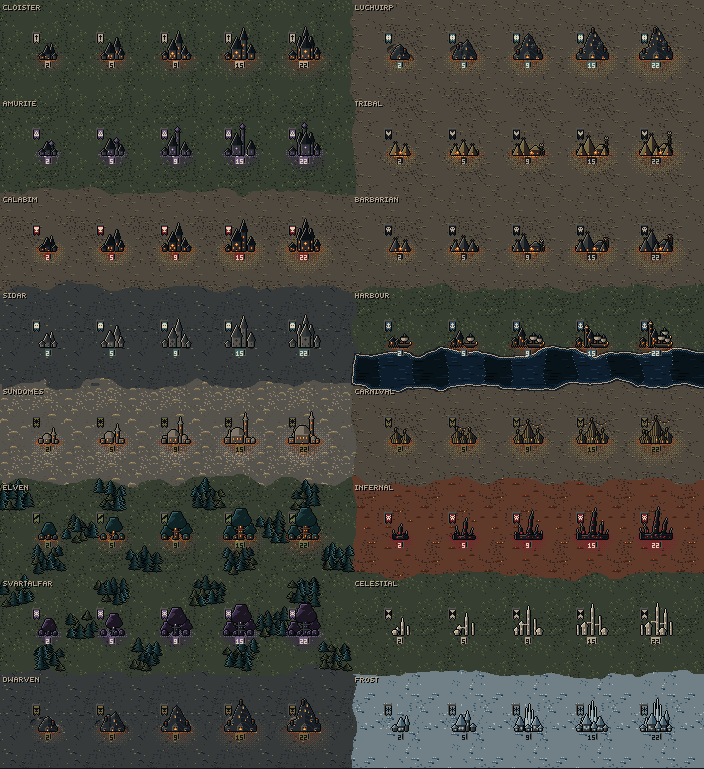
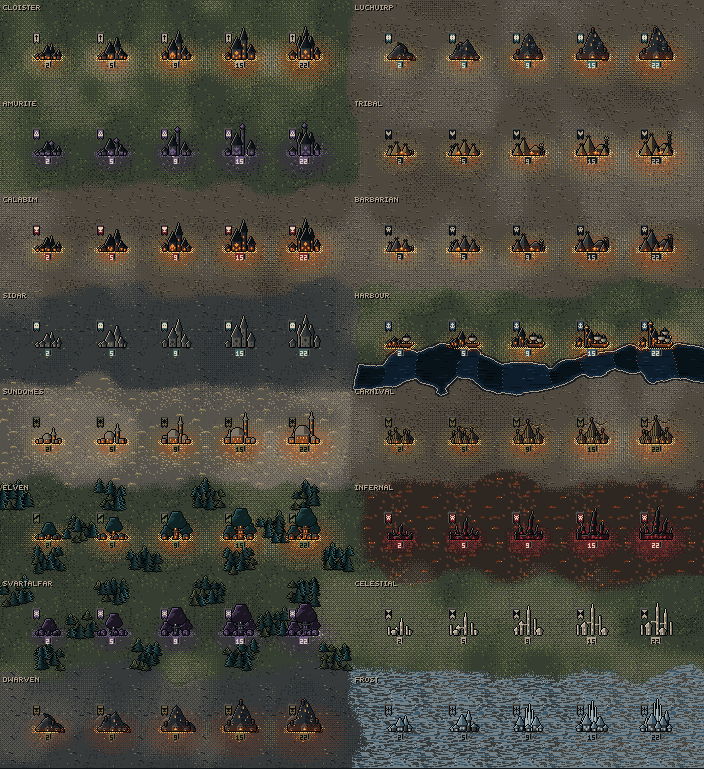
ffh-play: art pass 2: ART.md (budget revised deliberately, light pass, ground pass round 3, open points); reference shots
docs/ART.md: 2.3's value and colour budget revised toward the board, with
the measurements behind it (dark floor 70% -> 60%, above L*40 10% -> 12%,
reserved 2% -> 3%, light cores 0.3% -> 0.6%; the board's map: 66% dark,
11.8% above L*40, firelight 0.5%, cores 1.3%; the sample scene now 64%,
8.1%, firelight 0.22%, cores 0.12%); 2.4 lists the passes' tables; 4.4 the
three-ring pools; 5.2 grey snow; 5.6 pale paths; 6.2 sacred-site glows and
the standing stones circle; 8.2 REMEMBER and the fog bands; 9.1 tiers I-II
with outskirts, 1x2 windows, the new ground light and facade light; 16.3-16.4
the passes as built; 16.6 the open points outside the sets (palette.txt
columns, the plaque over the pool, the validator's city cap, the stale
docs/art/toolkit-scene.png).

Reference shots retaken: terrain/ref/scene-2x.png, terrain/ref/relief-3x.png,
cities/ref-styles.png (indexed), ui/ref/screen.png (indexed).

Claude-Session: https://claude.ai/code/session_015m21G1a13FKUWE1YyaXREp

diff --git a/projects/ffh2-rs/docs/ART.md b/projects/ffh2-rs/docs/ART.md
@@ -200,17 +200,34 @@ The same palette in machine-readable form (`index key name hex family`):
 
 ### 2.3 Value and colour budget
 
-Measured on the prototype map. Treat these as targets for any full-screen view of a typical game.
+Treat these as targets for any full-screen view of a typical game, measured over the visible
+(lit, not fogged) map pixels, one sample per art pixel, each pixel taken as its nearest palette
+colour.
 
-- At least **70%** of lit-map pixels have L* at or below 25 (the darkest 17 colours of section
-  2.1). The prototype map measured 75%, with 8% above L* 40, 1% above L* 60 and 0.7% in the
-  reserved families.
-- At most **10%** are above L* 40. At most **2%** are above L* 60 (bone, vellum, rime, glow, ritual,
+- At least **60%** of lit-map pixels have L* at or below 25 (the darkest 17 colours of section
+  2.1).
+- At most **12%** are above L* 40. At most **2%** are above L* 60 (bone, vellum, rime, glow, ritual,
   wisp, amber).
-- The three reserved families together (fire, crimson, pale green) cover at most **2%** of the
-  screen. Their light cores (`l L R W`) cover at most **0.3%**.
+- The three reserved families together (fire, crimson, pale green) cover at most **3%** of the
+  screen. Their light cores (`l L R W`) cover at most **0.6%**.
 - A saturated colour never fills more than about 6 px in a row except in glows, rituals or hell
   features. If it does, it is decoration.
+
+*Second round (the art director's light and ground review).* The first budget (70% dark, 10% above
+L* 40, 2% reserved, 0.3% cores) was measured on the prototype map, and the assembled sets kept well
+inside it: the sample scene measured 69% dark but only 3.5% above L* 40, firelight (`e E l L`) 0.14%
+and cores 0.09%, against the board's gameplay mock-up (same measure) at 66% dark, 11.8% above L* 40,
+2.6% above L* 60, firelight 0.5% and cores 1.3%. The map read under-lit and flat next to the board.
+The budget was revised deliberately, toward the board but short of it: the dark floor drops to 60%
+(the board is at 66%), the mid-light ceiling rises to 12% (the board's 11.8%) so moonlit clearings,
+pale paths and lit cities fit, and the reserved and core caps double so a town of several lit
+cities or a ritual site stays within them; the 2% ceiling above L* 60 stays (the board's 2.6% is
+painterly highlights that pixel art draws as edges). After the second round the sample scene
+(`preview/scene.html` at 2x, visible tiles; three cities, one of them Sheaim) measures 64% dark,
+8.1% above L* 40, 1.5% above L* 60, firelight 0.22%, cores 0.12% and 1.0% reserved; the cities
+plate's town map (`cities/preview.html?part=towns`, seven cities) firelight 0.43% and cores
+0.17%. Pixel-art light cores stay far below the board's 1.3% (its cores are soft painted glows);
+the light reads from the rings of section 4.4 instead.
 
 ### 2.4 Remap tables: fog and light pools
 
@@ -221,6 +238,12 @@ where a falloff is needed (section 4.4).
 `FOG` darkens about two steps within the family and puts every light out. The four pool tables pull
 the ground toward one reserved family: firelight (`FIRE`), corruption (`BLOOD`), ritual (`RITE`) and
 the arcane (`ARC`).
+
+The sets' passes (section 16.3) add tables of their own, written in the same form in their modules
+and candidates for new columns here (palette.txt would change with them): the light pass's ring
+tables WARM, HEARTH, EMBER, SMOULDER, GORE, AURA, HALLOW and HAZE (`cities/citylight.js`, section
+4.4), and the ground pass's REMEMBER (`FOG` with frost `f` to slate `4`, rime `F` to ash `5`, glint
+`g` to iron `3`, section 8.2), MOON, GRAIN and SHADE (the moonlit clearings, section 16.4).
 
 ```remap
 key  FOG FIRE BLOOD RITE ARC
@@ -378,9 +401,26 @@ W    T   8    R     W    8
   | window | none (a window is just the lit pixel) |
   | lantern or torch | 5 to 6 px |
   | campfire or forge | 8 px |
-  | city | 12 + 3 x size tier (two passes: the outer pass at full radius, the inner at half radius) |
+  | city | outer 24 + 4 x size tier, inner 12 + 4 x tier, core 6 + 2 x tier (section 9.1) |
 
   The pool is elliptical (vertical radius divided by 1.4) and centred on the source's ground point.
+- **A pool is light, not a stain** (second round). A single remap toward a family table turns moss
+  into dun or barrow green at the same value, and the ground reads as mud. Every pool is drawn by
+  the light pass (`cities/citylight.js`) as three nested rings, each remapping a pixel once from
+  its own ground colour with Bayer falloff, so the value rises toward the source:
+
+  | family | outer ring (r) | inner ring (0.55 r) | core (0.25 r, r >= 6) |
+  |---|---|---|---|
+  | `FIRE` | WARM: one step lighter and warmer (moss to ochre, dark moss to rust, ash to sand) | HEARTH: to flame `E`, dark ground to ember and rust, pale marks to amber | EMBER: to amber `l`, pale to glow `L` |
+  | `BLOOD` | SMOULDER: dark to blood, mid to rust, pale to crimson | GORE: to crimson, pale to scarlet | GORE |
+  | `ARC` | `ARC` (2.4) | AURA: to dusk and lilac | AURA |
+  | `RITE` | HAZE: to teal and patina, pale to ritual | HALLOW (0.5 r, sparse): to ritual `S`, pale to wisp | HALLOW (0.22 r) |
+
+  The outer ring covers at most 70% of its pixels at the centre and falls off as (1 - d)^0.6; the
+  inner ring 78% falling as (1 - d)^0.9; the core 75%, linearly (a ritual light: 80%, 60% and
+  85%). Open water (`d`, `n`) keeps its night under every ring; ripples and glints catch the
+  light. The tables are written as columns like 2.4's (`LIGHT_TABLES` in `cities/citylight.js`),
+  ready to move into palette.txt.
 - **Corruption** (volcano crater, Hellfire, Infernal cities, Broken Sepulcher...) uses `BLOOD`.
   **Ritual** sites use `RITE`. **Mana** nodes and spell effects use `ARC`.
 - **Pools never cross fog.** Lights are drawn only on visible tiles: what you saw last turn is
@@ -441,7 +481,7 @@ what the land used to be.
 | PLAINS | dun `Q` | umber `u` | horizontal stubble dashes, 2 to 4 px, alternating `y 5`, with a `u` pixel under | warm grey-brown |
 | DESERT | sand `Y` | stone `6` | dune arcs, 5 to 8 px, crest `7`, underside `y` | pale sand: the lightest land |
 | TUNDRA | slate `4` | iron `3` | lichen dots `O`/`o`, short crack lines `2` with a `5` lip | cool grey with specks |
-| SNOW | frost `f` | glint `g` | drift lines `g`, 4 to 8 px, with `F` crest pixels | pale blue-grey |
+| SNOW | frost `f` | slate `4` and glint `g` | wind streaks of slate and glint (about a third and a sixth), `F` crest pixels | cold grey, below the light of cities (second round: half glint read as a vivid steel-blue field) |
 | MARSH | moss-dk `q` | teal-dk `k` | water slits `n` with one `N` glint, reed ticks `o`/`O` | dark wet green |
 | BROKEN_LANDS (hell grass) | umber `u` | iron `3` | jagged cracks `1` with `c` lips, ash pebbles `5` | cracked dark earth |
 | FIELDS_OF_PERDITION (hell plains) | dusk `p` | bruise `v` | furrow dashes `c` with `P` flecks, bone-dust `6` | purple ash fields |
@@ -511,9 +551,13 @@ are **plot types** drawn over the plot's real terrain (section 5.3).
   is a **2 px ink line** of navy `n`, with a `g` glint pixel every 6 px and a 1 px soot `1`
   border. The line follows the terrain warp (it is displaced by −0.8 × the warp vector), so it
   meanders with the land. It joins water bodies; where river edges meet at corners, it rounds them.
-- **ROUTE_ROAD**: a dotted ink line from the tile anchor (16, 18) to each neighbour that has a road
-  (8 directions). One bone `7` dot every 3 px, with a coal `2` shadow pixel below-right. This is the
-  board's path motif.
+- **ROUTE_ROAD**: a pale path from the tile anchor (16, 18) to each neighbour that has a road
+  (8 directions). Dashes of bone `7` (2 px on, 2 px off along the line), each pixel with a coal `2`
+  shadow below-right, over a worn verge: the ground one step lighter, a 50% checker within 1.6 px of
+  the line and 25% out to 2.2 px. The line sways with a slow warp (0.55 x the 46/22/7 px warp of
+  the ground pass at its own seed), a function of the map position, so the halves two tiles draw
+  meet and a road wanders like the board's paths instead of ruling straight lines between tile
+  centres. This is the board's path motif.
 - **ROUTE_RAILROAD** (in the data, rarely seen): two parallel dotted lines 2 px apart, in stone `6`.
 - Roads enter cities to the city's gate point.
 
@@ -596,11 +640,13 @@ GOLD and the mana glyphs.
 
 Unique improvements are the **extraordinary** made visible. They are the only map objects, apart
 from lit windows, flames, volcanoes and mana nodes, allowed a full accent glow. Each is drawn once,
-32 px wide, with up to 8 to 12 px of overhang.
+32 px wide, with up to 8 to 12 px of overhang. Second round: the sacred sites glow wider (`RITE`
+pools of 14 to 24 px: a teal haze with a ritual heart, section 4.4), the pyre and the corrupted
+sites a little wider too (`FIRE` 14, `BLOOD` 12 to 17).
 
 | landmark | accent | pool |
 |---|---|---|
-| STANDING_STONES | 5 slate menhirs around a pale-green ring (the board's ritual circle) | `RITE` |
+| STANDING_STONES | 5 slate menhirs round a glowing pale-green ellipse 31 px wide (the board's ritual circle) with wisp sparks, an inner ring of barrow dots | `RITE` 24 |
 | POOL_OF_TEARS | a still pool with `S` ripples | `RITE` |
 | SEVEN_PINES | 7 tall conifers, each with a `W` mote | `RITE` |
 | YGGDRASIL | a giant tree, rising 12 px, with `S` glints in its crown | `RITE` |
@@ -736,13 +782,16 @@ grid of the owner's shade.
 Fogged tiles (revealed, not visible) are:
 
 - passed through `FOG` (section 2.4), so terrain keeps its family but drops two steps and every
-  light goes out;
+  light goes out; the ground pass uses REMEMBER, which is `FOG` with the frost family sent to the
+  neutrals (frost `f` to slate, rime `F` to ash, glint `g` to iron), so remembered snow and ice are
+  grey rather than the steel-blue `FOG` makes of them (second round; the vignette uses it too);
 - crossed by **ink hatching**: every pixel with `(x + y) mod 4 = 0` passes through `FOG` twice;
 - remembered: last-seen improvements, routes and cities (with their windows dark), but no foreign
   units.
 
 The fog edge follows the terrain warp at 0.6 × amplitude, so the line between seen and remembered
-is ragged like worn ink.
+is ragged like worn ink. (The ground pass classifies it like the terrain, full warp, and draws it as
+a 4 px Bayer band on each side; the unrevealed edge is a 3 px band: section 16.4.)
 
 ### 8.3 Unrevealed tiles and the vignette
 
@@ -778,8 +827,8 @@ than the one below, and a tier III town already fills its tile. Footprints inclu
 
 | tier | population | footprint (px) | top | content |
 |---|---|---|---|---|
-| I | 1-3 | about 20 wide, 17 tall | 11 | 2 or 3 buildings and a bell-cote; about 2 lit windows (one a 1x2 lancet with the `L` core) and a lit door |
-| II | 4-7 | about 25 wide, 23 tall | 5 | 4 buildings, a spire; about 4 windows |
+| I | 1-3 | about 26-28 wide, 17 tall | 11 | 2 or 3 buildings and a bell-cote, with a low outskirt house behind each end; about 4 lit windows (1x2 lancets, one with the `L` core) and a lit door |
+| II | 4-7 | about 30-31 wide, 23 tall | 5 | 4 buildings, a spire, outskirts at both ends; about 6 windows |
 | III | 8-12 | about 30 wide, 30 tall: the whole tile | -2 | the main hall (the Cloister's abbey front with its rose window) and a tower; 6 or 7 windows |
 | IV | 13-19 | about 33 wide, 33 tall | -5 | a great front, the tall tower, a chapter house; about 9 windows |
 | V | 20+ | 34 wide, 34 tall | -6 | a cathedral: twin towers about the front, the crossing spire; about 12 windows |
@@ -794,22 +843,29 @@ than the one below, and a tier III town already fills its tile. Footprints inclu
 - **Masses and the moon rim.** Buildings are dark masses: walls lit `5`, body `4`, shade `3`;
   roofs darker (`2`/`1`) with a **moon rim** of stone `6` on their west edges and tips, a step
   above any ground, so the silhouette separates from dark land at 1x.
-- **Windows.** 1x1 or 1x2, in the style's light colour (section 7.3), with one `L` core on the
-  main hall. The stone beside and under a window takes the style's halo for 1 px (firelight: dark
+- **Windows.** Mostly 1x2 lancets (a plain window is 1x2 since the second round; 1x1 only where
+  a style says so), in the style's light colour (section 7.3), with one `L` core on the main hall;
+  a lit house's door is a 1x2 amber doorway. The stone beside and under a window takes the
+  style's halo for 1 px (firelight: dark
   stone to ember `e`, mid stone to rust `x`, lit stone to flame `E`), so a window reads as a small
   hearth in the wall and the stone looks lit from within.
-- **Ground light.** A lit city sits in warm light, never in mud: an inner ring of ember and rust
-  round its walls (HEARTH: dark ground to `e`, mid ground to `x`, light marks to `E`; radius
-  9 + 2 x tier) and an outer `FIRE` ring falling off to umber and dun (radius 16 + 3 x tier), both
-  elliptical with Bayer falloff, each pixel remapped once from its own ground colour (open water,
-  `d` and `n`, keeps its night). Then a wall glow (HEARTH once more on the ground within 4 px of
-  the sprite's lower walls): the sprite covers the pool's middle, so this is the light that shows.
-  `BLOOD` cities (Infernal, Sheaim) take GORE inside (blood `c`, crimson `C`), `ARC` cities
-  (Amurites, Svartalfar) AURA (dusk `p`, lilac `P`), with the outer ring at three quarters of the
-  radius, as they turn the ground's hue outright; frost, celestial and the faded Sidar cast no
-  pool. A sprite's own `: light` (the tribal and barbarian bonfire, `FIRE` radius 8) is drawn
-  under it. `cities/citylight.js` implements this (`installCityLight(art)`; its tables are written
-  as new columns for 2.4) and replaces the two `FIRE` passes of 4.4 for cities.
+- **Ground light.** A lit city sits in warm light, never in mud. Second round (the light review:
+  the pool read as a brown stain and the city as a dark speck): the pool is the three rings of
+  section 4.4 at city radii, an outer WARM glow (ochre and sand over moss and dun, radius
+  24 + 4 x tier), an inner HEARTH ring (flame, ember and rust, radius 12 + 4 x tier) and an EMBER
+  core (amber, radius 6 + 2 x tier), elliptical with Bayer falloff, each pixel remapped once from
+  its own ground colour (open water, `d` and `n`, keeps its night). Then a wall glow on the ground
+  within 4 px of the sprite's lower walls (EMBER where it is strong, HEARTH elsewhere): the sprite
+  covers the pool's middle, so this is the light that shows. Then the **facade light**: after the
+  sprite is drawn, its lowest 5 + tier rows catch the pool (HEARTH from the sprite's own dark and
+  mid colours, 80% on the ground line falling to none; outline, windows, pale stone and hide are
+  left alone), so the town stands in its light instead of on it. `BLOOD` cities (Infernal, Sheaim)
+  take SMOULDER and GORE (blood, rust, crimson), `ARC` cities (Amurites, Svartalfar) `ARC` and AURA
+  (dusk, lilac), with the outer ring at three quarters of the radius, as they turn the ground's hue
+  outright; frost, celestial and the faded Sidar cast no pool. A sprite's own `: light` (the tribal
+  and barbarian bonfire, `FIRE` radius 8) is drawn under it. `cities/citylight.js` implements this
+  (`installCityLight(art)`, the light pass) and replaces the two `FIRE` passes of 4.4 for cities and
+  every other pool.
 
 ### 9.2 City styles
 
@@ -1570,10 +1626,12 @@ landmarks: the 17 unique improvements, drawn by the terrain set.
 ### 16.3 How the client calls the toolkit
 
 `loadArt()` loads the sprites and the mapping, then installs the sets' **passes** (`PASSES` in
-art.js): `terrain/ground.js` (the ground pass: blob terrain classes, wider warp, feathered edges,
-organic fog, river and road verges, wooded crests, moonlit wood rims), `units/stack.js` (the stack
-standard, count chip, health bar, marks and lantern reflections) and `cities/citylight.js` (the
-hearth pool, wall glow and bonfires). Each wraps or replaces some `Art` methods, so the drawing
+art.js): `terrain/ground.js` (the ground pass: blob terrain classes, a wider warp, Bayer transition
+bands, moonlit clearings, organic fog through REMEMBER, pale paths, river verges, wooded crests,
+moonlit wood rims), `units/stack.js` (the stack standard, count chip, health bar, marks and lantern
+reflections) and `cities/citylight.js` (the light pass: three-ring pools for cities and every other
+light, the wall glow, the facade light and the bonfires). Each wraps or replaces some `Art`
+methods, so the drawing
 functions of 15.3 and `renderMap` produce the final look without further calls.
 `loadArt({ passes: false })` gives the seed drawing (the set previews use it to install their own
 module with their toggles). The pass modules are imported next to art.js, so serve the whole
@@ -1626,13 +1684,28 @@ sections above:
   (top centre in a city). The 6x8 pennant is retired. The city banner `ui/banner` is the same
   field without the pole.
 - **5.1-5.6: the ground pass** (`terrain/ground.js`) replaces the per-tile warp of 5.1 with
-  class blobs (Gaussian weights of the 3x3 tile centres, sigma 13 px, a three-octave warp up to
-  10 px), dithered feathers between land textures, organic fog and unrevealed edges, pale road and
-  river verges, unmirrored hills with wooded crests and a moonlit rim on woods
-  (`terrain/manifest.txt` lists the texture choices: flecked mottling, ash desert, wind-streaked
-  snow, umber burning sands).
-- **9.1: city light** as written there (the hearth pool, `cities/citylight.js`); its HEARTH,
-  GORE and AURA tables are candidates for new columns of 2.4.
+  class blobs (Gaussian weights of the 3x3 tile centres, sigma 13 px, each tile's weight scaled by
+  a hash of its position, e^(+-0.5)), sampled through a three-octave warp (cells 46, 22 and 7 px;
+  the 46 px octave, amplitude 10, shaped toward its extremes; |w| <= 14 px); organic fog and
+  unrevealed edges; pale road and river verges, unmirrored hills with wooded crests and a moonlit
+  rim on woods (`terrain/manifest.txt` lists the texture choices: flecked mottling, ash desert,
+  wind-streaked snow, umber burning sands). Second round (the light and ground review: a patchwork
+  of flat mid-value fields with visible tile squares where contrasting terrains meet):
+  - **transition bands**: where two land textures meet, the winner's share rises from 50% on the
+    edge to 100% 4 px inside it, thresholded by the 4x4 Bayer matrix in map space (25/50/75%
+    ordered bands, not a line); seen and remembered meet in the same 4 px band, the unrevealed
+    edge in a 3 px band. Shorelines keep their ink;
+  - **moonlit clearings and cloud shade**: a low-frequency field (value noise, cells 88 and 30 px)
+    lifts the land one step (MOON: moss to olive, dun to ash, ash to stone) by a Bayer share up to
+    60% where it is high, adds a cold grain at its brightest (GRAIN: up to 30% to stone `6`, tufts
+    to lichen), and lowers it one step (SHADE) by up to 25% where it is low. Water, ink and lights
+    are left alone. This is the board's lighter open ground between dark woods;
+  - **pale paths** (5.6), **REMEMBER** (8.2), and snow as cold grey streaks (5.2).
+- **9.1, 4.4: the light pass** as written there (`cities/citylight.js`): three-ring pools for
+  cities and every other light, the wall glow and the facade light; its tables are candidates for
+  new columns of 2.4. Tiers I and II have outskirts (9.1) and windows are mostly 1x2.
+- **2.3: the budget** was revised in the second round (60% dark, 12% above L* 40, 3% reserved,
+  0.6% cores), with the measurements that led to it.
 - **10.5: lanterns.** Ships and settlers carry a lantern (glow over amber, FIRE radius 6); on water
   it casts the broken reflection of 5.4 under the hull.
 - **11.5: icons.** Buildings have class icons; heroic and divine promotion seals have a double
@@ -1649,3 +1722,20 @@ the units sheet) show the assembled art; each set keeps its own small reference 
 (`terrain/ref/`, `units/reference*.png`, `cities/ref-styles.png`, `ui/ref/`). Regenerate with
 `node tools/screenshot.mjs /tmp/art` and read `scene.png`, `scene-1x.png`, the four set sheets and
 `coverage.png`.
+
+The second art pass retook `terrain/ref/scene-2x.png`, `terrain/ref/relief-3x.png`,
+`cities/ref-styles.png` and `ui/ref/screen.png`; `docs/art/toolkit-scene.png` predates it.
+
+### 16.6 Open points after the second pass
+
+Changes the second pass needs outside the sets (the toolkit's and the client's files):
+
+- **palette.txt and 2.4**: the light pass's ring tables and the ground pass's REMEMBER, MOON, GRAIN
+  and SHADE live in their modules; moving them into palette.txt as columns would let the client
+  and the minimap use them (`preview/scene.js` passes fogged minimap tiles through `FOG`, so its
+  remembered snow is still steel-blue).
+- **The plaque** (`art.js` `_plaque`, tile rows 29-35) covers the front of a city's pool, the
+  brightest ground; drawing it 2 or 3 rows lower, or narrower, would show the doorway light.
+- **The validator's city cap** (34x34, `tools/validate.mjs`): tiers III-V are at it; with 40x44
+  (3.1's 12 px of overhang) they could grow as tiers I and II did.
+- **`docs/art/toolkit-scene.png`** should be retaken (`node tools/screenshot.mjs`, `scene.png`).

diff --git a/projects/ffh2-rs/crates/ffh-play/web/art/ui/README.md b/projects/ffh2-rs/crates/ffh-play/web/art/ui/README.md
@@ -12,15 +12,16 @@ node tools/serve.mjs            # from web/art; then open:
 #   /ui/preview.html?modal      the same with an event modal (illuminated initial, option buttons)
 #   /ui/preview.html?kit        every piece of the kit; ?kit=frames,buttons,fonts,buildings,... for some sections
 #   ?u=1|2|3 UI scale, ?zoom=1..4 map zoom, ?doom=N the Armageddon counter,
-#   ?ground the terrain set's ground pass, ?citylight the cities set's hearth pools
+#   ?ground the terrain set's ground pass, ?citylight the cities set's light pass
 #   /preview/sheet.html?set=ui  the toolkit's contact sheet of this set
 ```
 
 The preview installs the units set's `units/stack.js` (`installStackOverlay`: the stack standard);
 `?ground` adds the terrain set's `terrain/ground.js` (`installTerrain`) and `?citylight` the cities
-set's `cities/citylight.js` (`installCityLight`), both from their second round. `ref/screen.png`
+set's `cities/citylight.js` (`installCityLight`, the light pass). `ref/screen.png`
 (`?ground&citylight`) and `ref/kit.png` are small reference shots of the preview (u = 2), taken on
-the combined sets (art-review with the second rounds of units, terrain and cities).
+the combined sets (art-review with the second rounds of units, terrain and cities; `screen.png`
+retaken after the light and ground pass: moonlit clearings, pale paths, three-ring pools).
 
 ## Files
 
